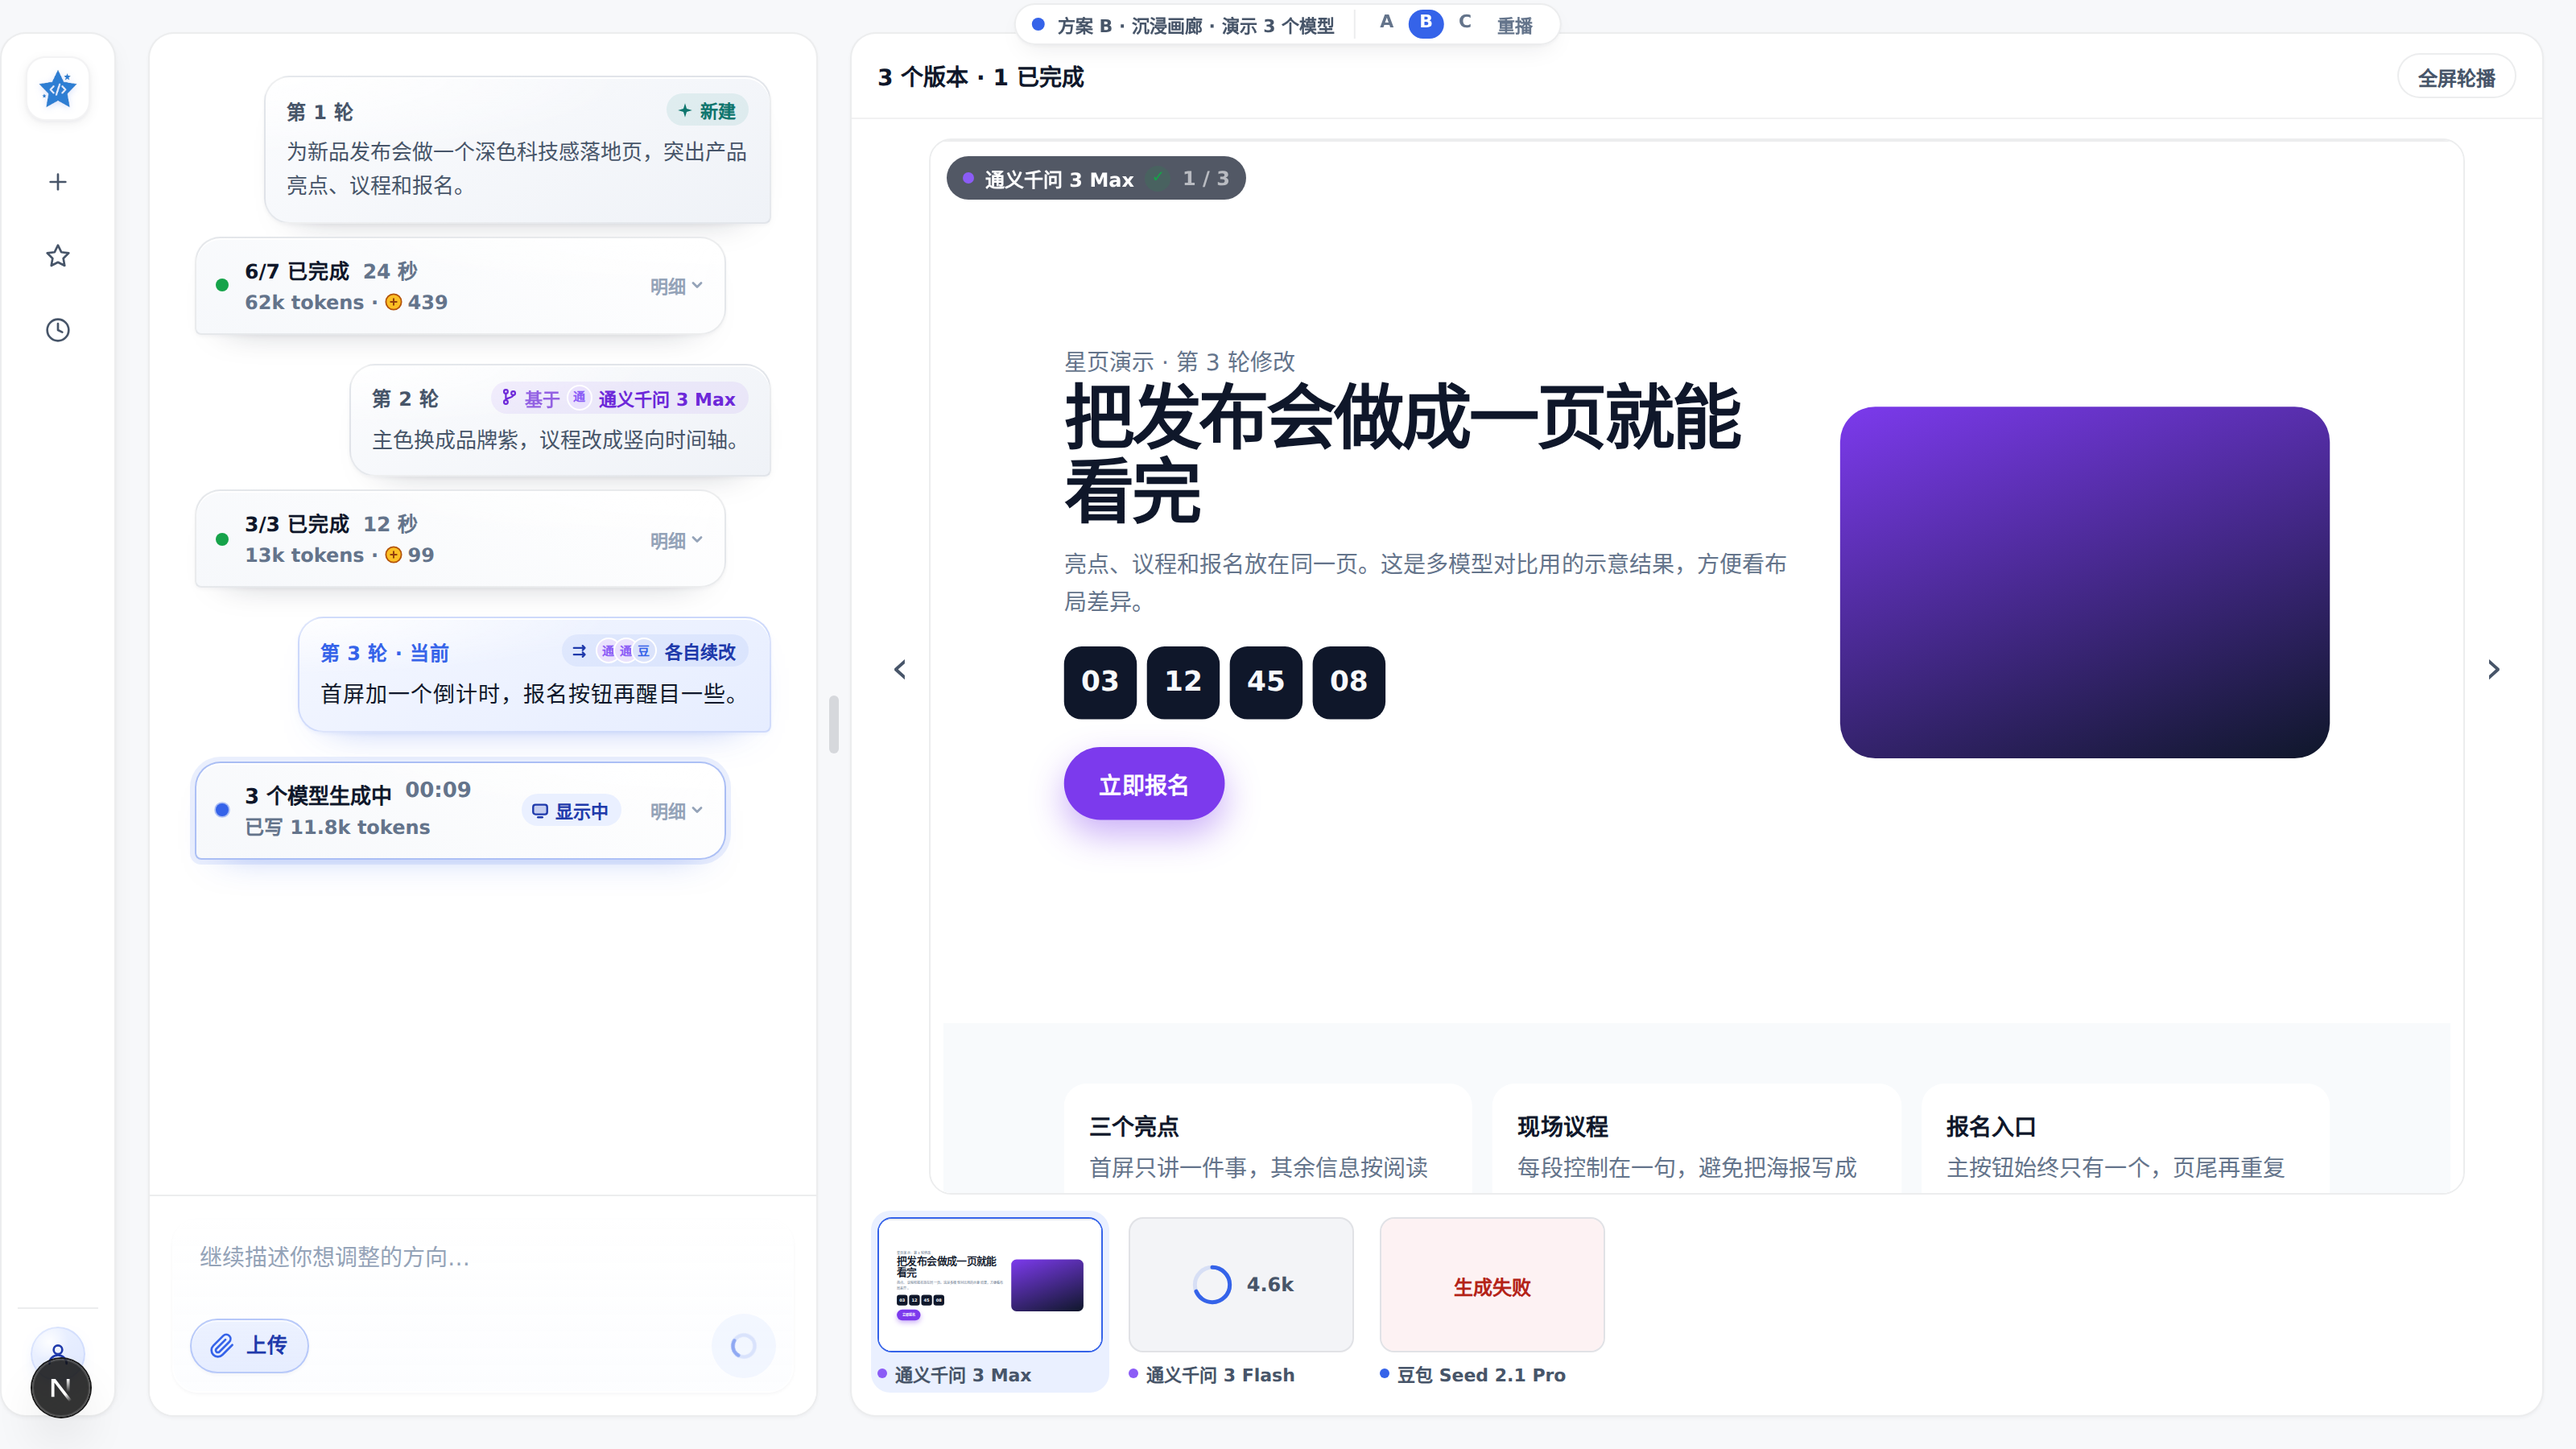
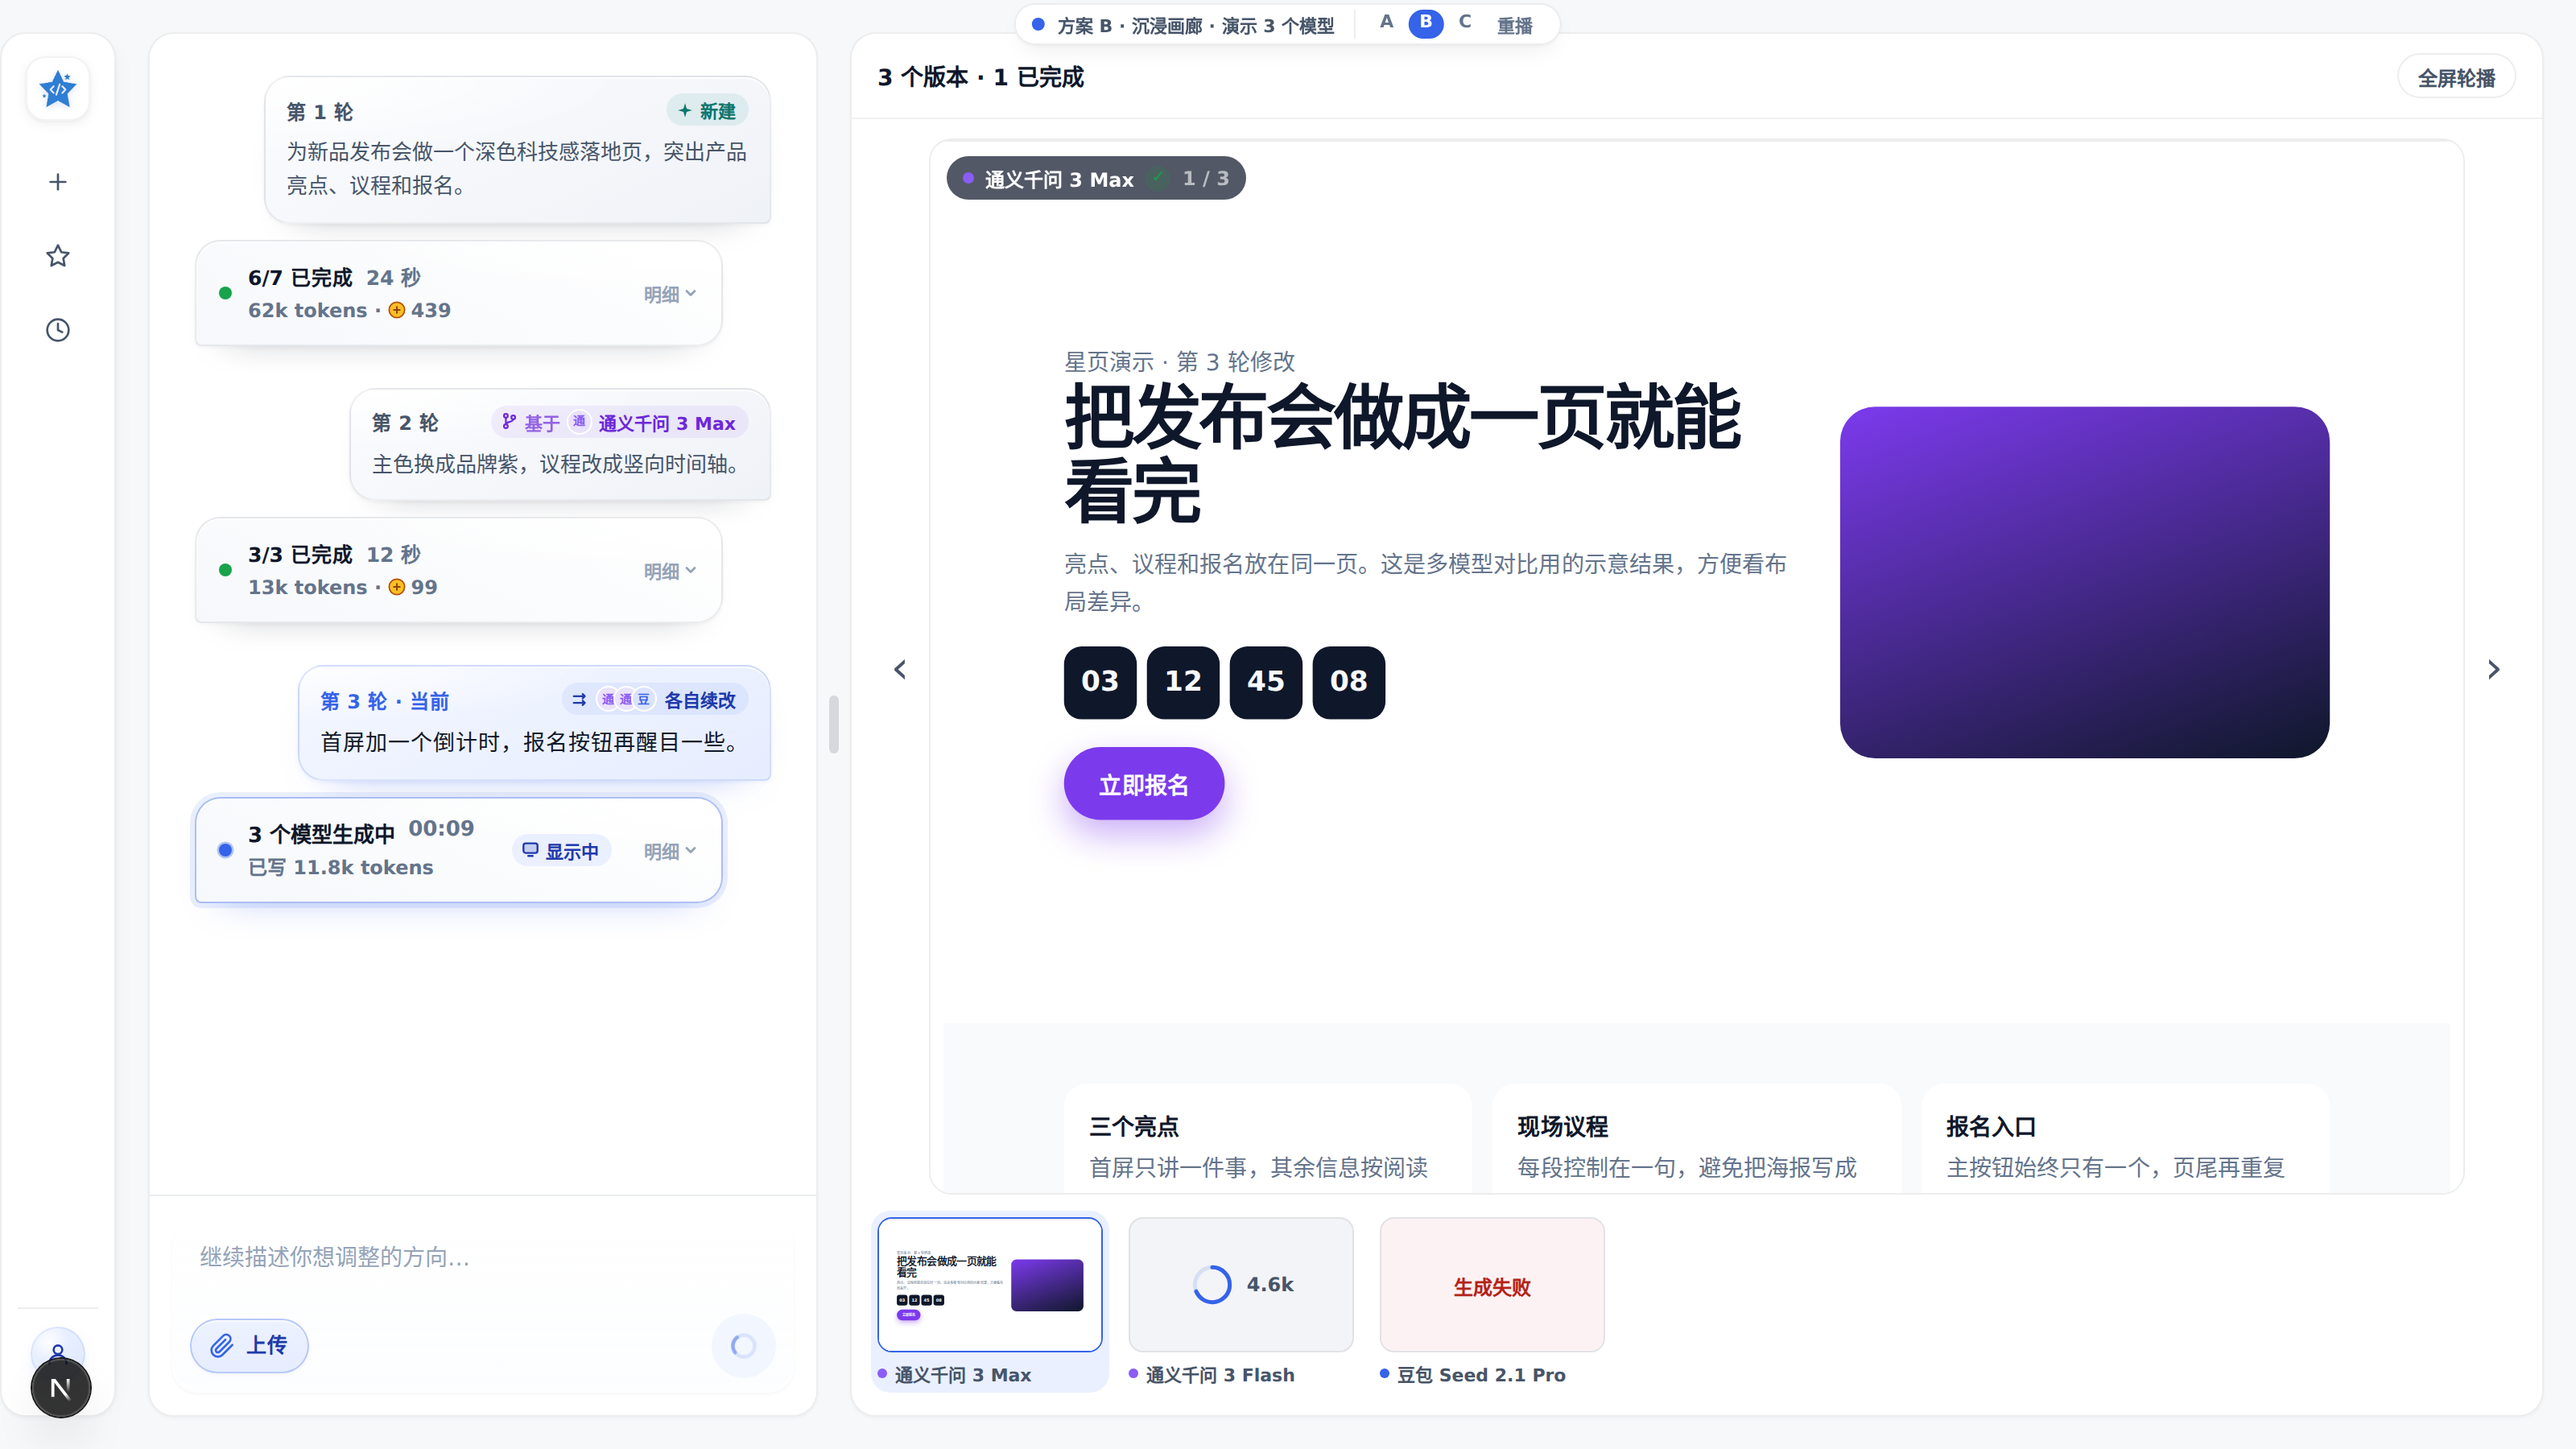
ux(B): 回复气泡限宽并加大内边距，统一轮内与轮间间距

diff --git a/code/frontend/app/components/workspace/variants.css b/code/frontend/app/components/workspace/variants.css
@@ -536,22 +536,25 @@ body.is-resizing-panes iframe {
 .vb-status-head .vb-pill-text strong { white-space: nowrap; }
 
 /* 多轮：已结束的轮次在对话栏里退成一张淡卡，右侧在看它时描一圈主色 */
-.chat-round.is-past {
+/* 对话节奏：一轮内「需求 → 回复」贴近（10px），轮与轮之间拉开（26px），一眼能看出分组 */
+.chat-round {
   display: flex;
   flex-direction: column;
-  gap: 8px;
+  gap: 10px;
 }
+
+.layout-b .conversation-scroll { gap: 26px; }
 
 /* 对话栏是纵向 flex 且可滚动：卡片带 overflow:hidden 会被允许压扁，内容超高时必须禁止收缩 */
 .layout-b .conversation-scroll > *,
-.chat-round.is-past > * {
+.chat-round > * {
   flex-shrink: 0;
 }
 
 /* 回复气泡：靠左、宽度随内容，左下角收成尖角，和右下尖角的用户气泡一来一回；质感与用户气泡同一套 */
 .layout-b .conversation-scroll .vb-status {
   align-self: flex-start;
-  width: calc(100% - 28px);
+  width: min(calc(100% - 28px), 328px);
   margin-top: 0;
   border: 1px solid rgba(15, 23, 42, 0.08);
   border-radius: 16px 16px 16px 4px;
@@ -567,6 +570,15 @@ body.is-resizing-panes iframe {
 .layout-b .conversation-scroll .vb-status.is-open { width: 100%; }
 
 .layout-b .conversation-scroll .vb-status { container-type: inline-size; }
+
+.layout-b .conversation-scroll .vb-pill {
+  gap: 10px;
+  padding: 12px 14px;
+}
+
+.layout-b .conversation-scroll .vb-pill-text { gap: 3px; }
+
+.layout-b .conversation-scroll .vb-more-btn { padding-right: 14px; }
 
 /* 栏宽拖到很窄时，「明细」只留箭头，把位置让给摘要数字 */
 @container (max-width: 300px) {

diff --git a/code/frontend/app/page.tsx b/code/frontend/app/page.tsx
@@ -2920,6 +2920,7 @@ export default function HomePage() {
                     </div>
                   );
                 })}
+                <div className="chat-round is-current">
                 <div className={`chat-message user-message ${isLongPrompt ? "long-message" : ""}`} data-anim-stagger>
                   <div className="user-message-meta">
                     <span>{pastRounds.length > 0 ? `第 ${roundIndex + 1} 轮 · 当前` : "你的需求"}</span>
@@ -2944,6 +2945,7 @@ export default function HomePage() {
                 </div>
 
                 <ProgressSlot />
+                </div>
               </div>
               <div className="composer-wrap">{renderPromptForm(true)}</div>
             </aside>

diff --git a/doc/20261109/generation-progress-compare-variants.md b/doc/20261109/generation-progress-compare-variants.md
@@ -67,6 +67,8 @@
     - 进度卡上的「选用」标签去掉了，因为意思不清楚；下一轮气泡上的「基于 某模型」已经说明了来源。明细表里，被下一轮拿去修改的那个模型带「→第2轮」标签，悬停显示「第 2 轮基于这个结果修改」。
     - 修复：对话内容超过栏高时，进度卡被压扁、和气泡叠在一起。原因是对话栏是纵向弹性布局，带溢出裁剪的卡片会被允许收缩；现已禁止对话栏里的卡片和气泡收缩。窄栏下「第 4 轮 · 当前」不再折成两行，长模型名在来源标签里省略。截图：`b-multi-short-pane.png`（640px 高窗口）。
     - 进度卡改成「回复气泡」：靠左，右侧留出 28px，与靠右的用户气泡错开。左下角收成尖角，和用户气泡的右下尖角相对。质感与用户气泡同一套（柔光、渐变、内高光、投影）。展开明细时占满整栏，给表格留空间。
+    - 回复气泡最宽 328px，宽栏下不再拉得很长。内边距加大到上下 12px、左右 14px，两行之间留 3px，高度统一为 66px。
+    - 对话节奏统一：当前轮也包成和历史轮一样的分组。一轮内「需求 → 回复」间隔 10px，轮与轮之间间隔 26px。
     - 栏很窄时（卡片不足 300px），「明细」只留箭头。「查看」改为悬停时浮出、不占位，摘要数字不再被挤成省略号。
   - 截图：`images/20261109/gen-ui-variants/b-multi-live.png`（第 3 轮生成中）、`b-multi-view-r1.png`（回看第 1 轮）、`b-multi-r1-detail.png`（第 1 轮明细联动）、`b-multi-tab-r2.png`（右侧切到第 2 轮）、`b-multi-done.png`（第 3 轮完成）。
 
